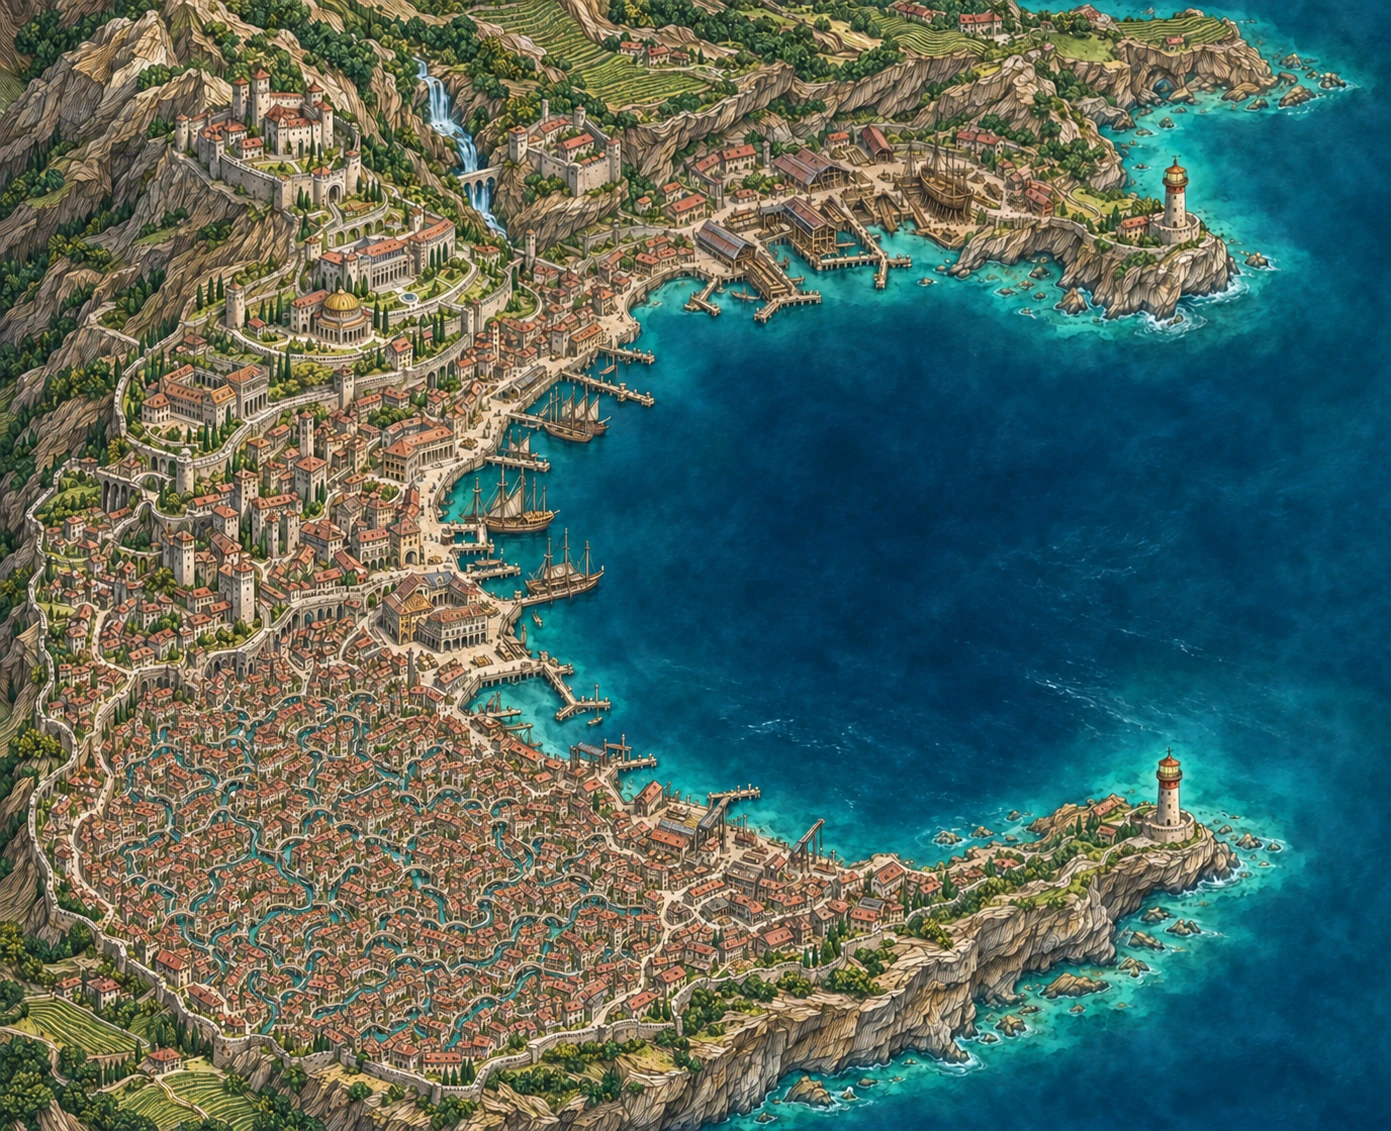
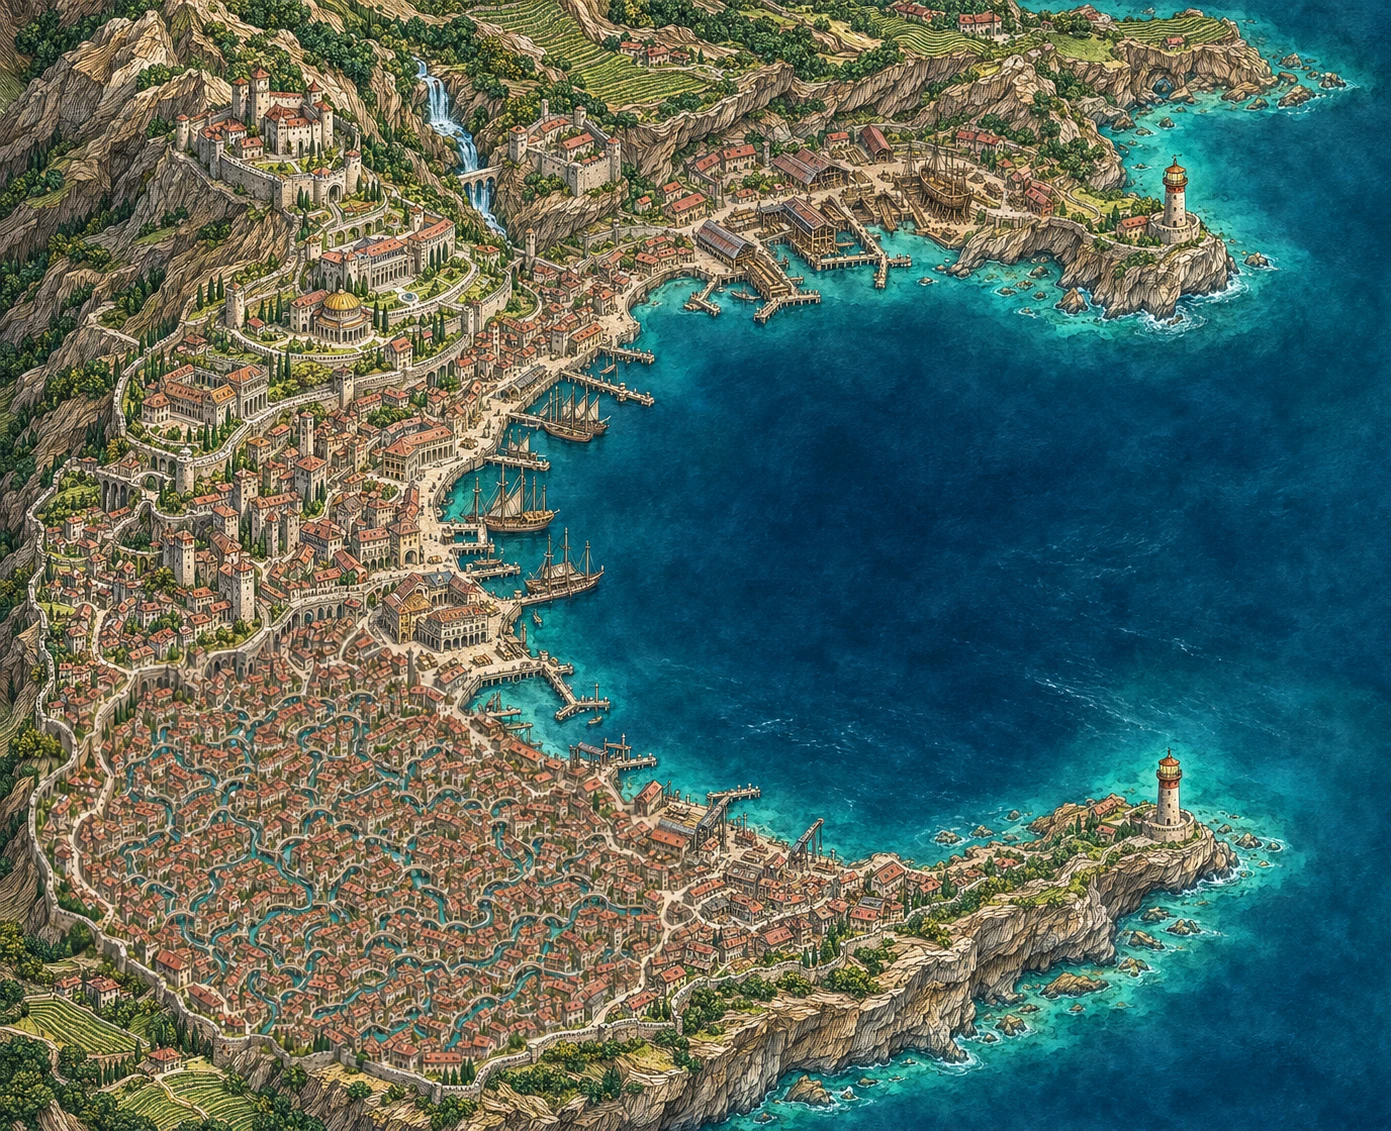
Preserve the original cartography outside the canal district

Changed region(s): [[0.0, 0.0, 0.9892, 1.0]]

diff --git a/index.html b/index.html
@@ -6,7 +6,7 @@
 <script src="pack2.js?v=101"></script>
 <script src="welcome.js?v=16"></script>
 <link rel="stylesheet" href="pack2.css?v=14">
-<link rel="preload" href="assets/fonts/atlas-serif.woff" as="font" type="font/woff" crossorigin><link rel="stylesheet" href="campaigns.css?v=15"><link rel="stylesheet" href="campaign-music.css?v=15"><link rel="stylesheet" href="character-book.css?v=22"><link rel="stylesheet" href="library.css?v=2"><script src="library.js?v=4" defer></script><script src="secrets.js?v=5" defer></script><script src="names.js?v=7" defer></script><script src="statblocks.js?v=7" defer></script><script src="adventurers.js?v=40" defer></script><link rel="stylesheet" href="folk-directory.css?v=1"><script src="folk-directory.js?v=4" defer></script><script src="frontier-map.js?v=8" defer></script><script src="app.js?v=159" defer></script><link rel="stylesheet" href="campaign-guide.css"><link rel="stylesheet" href="github-edition.css"><link rel="stylesheet" href="adventurers.css?v=21">
+<link rel="preload" href="assets/fonts/atlas-serif.woff" as="font" type="font/woff" crossorigin><link rel="stylesheet" href="campaigns.css?v=15"><link rel="stylesheet" href="campaign-music.css?v=15"><link rel="stylesheet" href="character-book.css?v=22"><link rel="stylesheet" href="library.css?v=2"><script src="library.js?v=4" defer></script><script src="secrets.js?v=5" defer></script><script src="names.js?v=7" defer></script><script src="statblocks.js?v=7" defer></script><script src="adventurers.js?v=40" defer></script><link rel="stylesheet" href="folk-directory.css?v=1"><script src="folk-directory.js?v=4" defer></script><script src="frontier-map.js?v=9" defer></script><script src="app.js?v=159" defer></script><link rel="stylesheet" href="campaign-guide.css"><link rel="stylesheet" href="github-edition.css"><link rel="stylesheet" href="adventurers.css?v=21">
 <link rel="stylesheet" href="atlas-ux.css?v=4">
 </head>
 <body><a class="skip" href="#content">Skip to content</a><div class="mobile-backdrop" id="mobile-backdrop"></div>

diff --git a/frontier-map.js b/frontier-map.js
@@ -56,7 +56,7 @@ window.AtlasCharts = (() => {
   const city = {
     id:'goldwind',
     bounds:{x:0,y:0,width:1000,height:813}, unit:2.65,
-    image:'assets/ventoro-city-chart-v2.webp',
+    image:'assets/ventoro-city-chart-v2.webp?v=2',
     intro:['Two lighthouses mark the entrance to the C-shaped gulf. Below the cliffs, the Commons crowds around its waterways, and the city climbs from the three harbors to the Vol Kaern heights.','Dos faros marcan la entrada del golfo en forma de C. Al pie de los riscos, El Común se apiña alrededor de sus canales y la ciudad sube desde los tres puertos hasta las alturas de Vol Kaern.'],
     note:['The harbors, districts and landmarks follow their relationships in the Atlas. Street alignments, blocks and individual footprints are proposed placements.','La relación entre los puertos, barrios y lugares sigue el Atlas. El trazado exacto de las calles, las manzanas y los edificios es una propuesta cartográfica.'],
     regions:[
